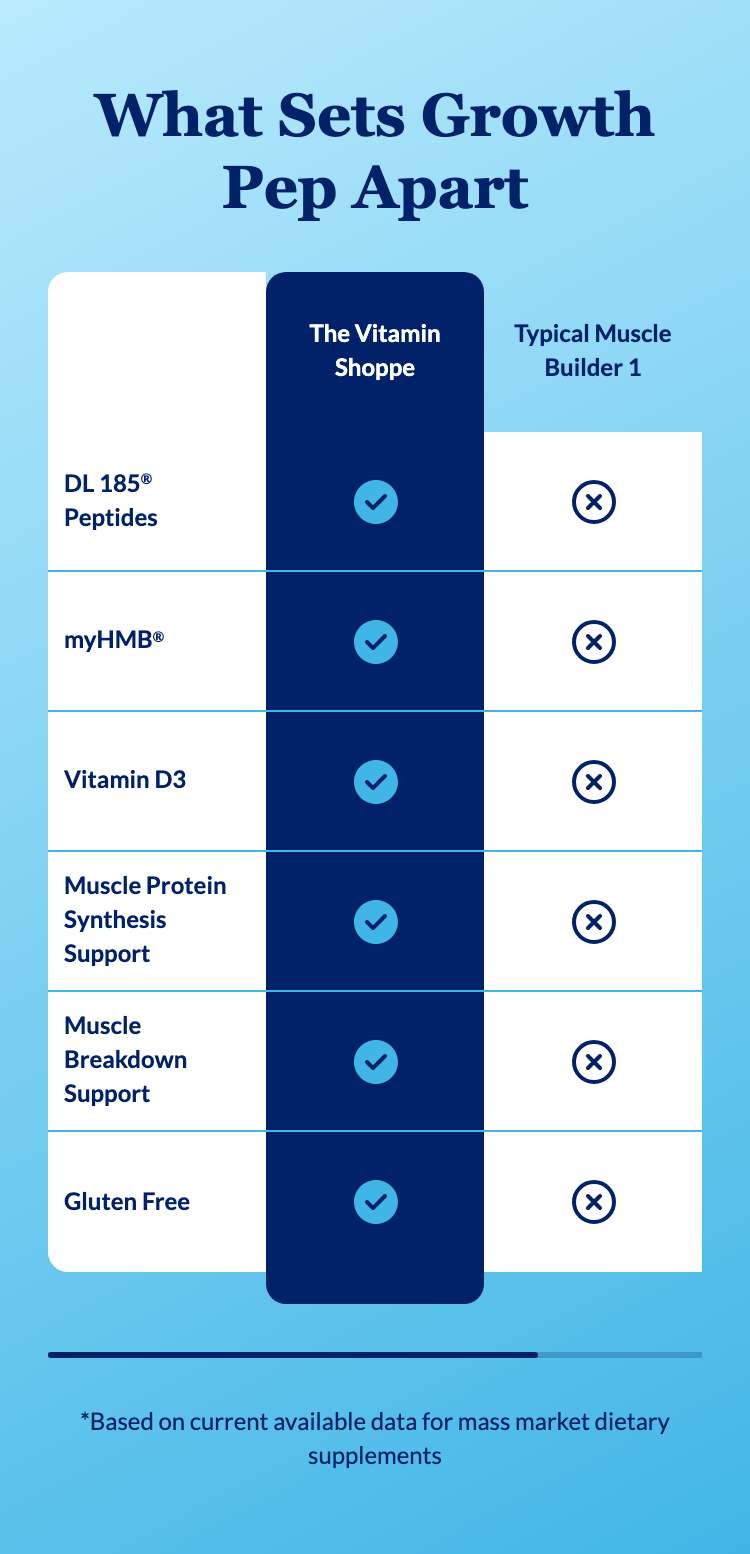
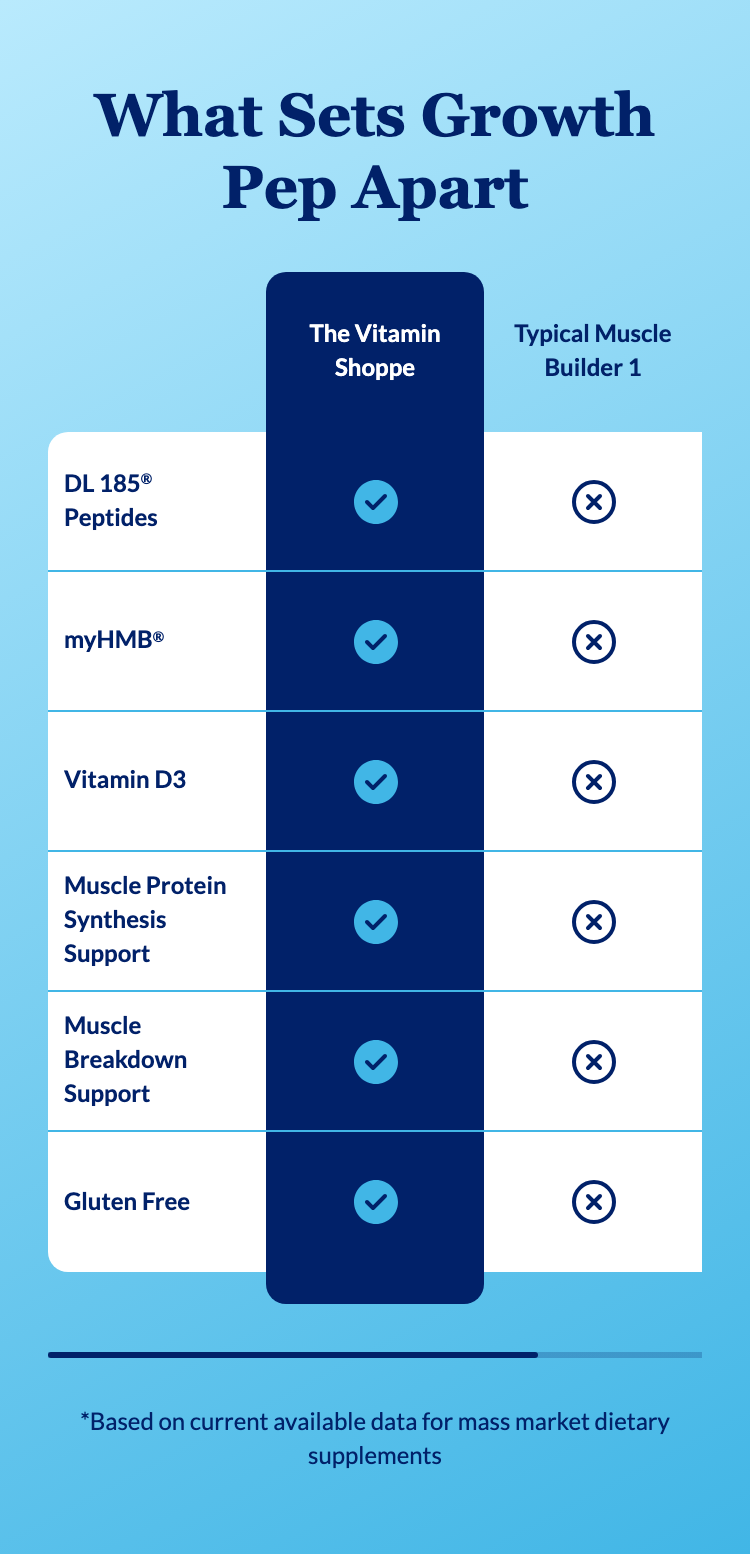
screenshots 2026-09-09T08:30:51.732Z

Changed region(s): [[0.0613, 0.1544, 0.368, 0.278]]

diff --git a/index.html b/index.html
@@ -89,6 +89,8 @@ https://framework-labs-d2c.github.io/vitaminshoppe-public/buy-box/figma-desktop.
 https://framework-labs-d2c.github.io/vitaminshoppe-public/buy-box/figma-mobile.jpg
 https://framework-labs-d2c.github.io/vitaminshoppe-public/buy-box/index.html
 https://framework-labs-d2c.github.io/vitaminshoppe-public/buy-box/mobile-375.png
+https://framework-labs-d2c.github.io/vitaminshoppe-public/buy-box/sticky-bar-1512.png
+https://framework-labs-d2c.github.io/vitaminshoppe-public/buy-box/sticky-bar-375.png
 https://framework-labs-d2c.github.io/vitaminshoppe-public/buy-box/tablet-768.png
 https://framework-labs-d2c.github.io/vitaminshoppe-public/buy-box/thumbnail-140.png
 https://framework-labs-d2c.github.io/vitaminshoppe-public/buy-box/wide-1920.png
@@ -230,7 +232,7 @@ https://framework-labs-d2c.github.io/vitaminshoppe-public/video-banner/index.htm
 https://framework-labs-d2c.github.io/vitaminshoppe-public/video-banner/mobile-375.png
 https://framework-labs-d2c.github.io/vitaminshoppe-public/video-banner/tablet-768.png
 https://framework-labs-d2c.github.io/vitaminshoppe-public/video-banner/thumbnail-140.png
-https://framework-labs-d2c.github.io/vitaminshoppe-public/video-banner/wide-1920.png" onclick="copyUrl(this)">copy all 186 URLs</button></p>
+https://framework-labs-d2c.github.io/vitaminshoppe-public/video-banner/wide-1920.png" onclick="copyUrl(this)">copy all 188 URLs</button></p>
 <div class="index">
   <div class="file"><span>assets/benefits-chevron-tile-756.svg</span> <a href="https://framework-labs-d2c.github.io/vitaminshoppe-public/assets/benefits-chevron-tile-756.svg" target="_blank" rel="noopener">https://framework-labs-d2c.github.io/vitaminshoppe-public/assets/benefits-chevron-tile-756.svg</a> <button type="button" data-url="https://framework-labs-d2c.github.io/vitaminshoppe-public/assets/benefits-chevron-tile-756.svg" onclick="copyUrl(this)">copy</button></div>
   <div class="file"><span>assets/benefits-demo-square-736.jpg</span> <a href="https://framework-labs-d2c.github.io/vitaminshoppe-public/assets/benefits-demo-square-736.jpg" target="_blank" rel="noopener">https://framework-labs-d2c.github.io/vitaminshoppe-public/assets/benefits-demo-square-736.jpg</a> <button type="button" data-url="https://framework-labs-d2c.github.io/vitaminshoppe-public/assets/benefits-demo-square-736.jpg" onclick="copyUrl(this)">copy</button></div>
@@ -276,6 +278,8 @@ https://framework-labs-d2c.github.io/vitaminshoppe-public/video-banner/wide-1920
   <div class="file"><span>buy-box/figma-mobile.jpg</span> <a href="https://framework-labs-d2c.github.io/vitaminshoppe-public/buy-box/figma-mobile.jpg" target="_blank" rel="noopener">https://framework-labs-d2c.github.io/vitaminshoppe-public/buy-box/figma-mobile.jpg</a> <button type="button" data-url="https://framework-labs-d2c.github.io/vitaminshoppe-public/buy-box/figma-mobile.jpg" onclick="copyUrl(this)">copy</button></div>
   <div class="file"><span>buy-box/index.html</span> <a href="https://framework-labs-d2c.github.io/vitaminshoppe-public/buy-box/index.html" target="_blank" rel="noopener">https://framework-labs-d2c.github.io/vitaminshoppe-public/buy-box/index.html</a> <button type="button" data-url="https://framework-labs-d2c.github.io/vitaminshoppe-public/buy-box/index.html" onclick="copyUrl(this)">copy</button></div>
   <div class="file"><span>buy-box/mobile-375.png</span> <a href="https://framework-labs-d2c.github.io/vitaminshoppe-public/buy-box/mobile-375.png" target="_blank" rel="noopener">https://framework-labs-d2c.github.io/vitaminshoppe-public/buy-box/mobile-375.png</a> <button type="button" data-url="https://framework-labs-d2c.github.io/vitaminshoppe-public/buy-box/mobile-375.png" onclick="copyUrl(this)">copy</button></div>
+  <div class="file"><span>buy-box/sticky-bar-1512.png</span> <a href="https://framework-labs-d2c.github.io/vitaminshoppe-public/buy-box/sticky-bar-1512.png" target="_blank" rel="noopener">https://framework-labs-d2c.github.io/vitaminshoppe-public/buy-box/sticky-bar-1512.png</a> <button type="button" data-url="https://framework-labs-d2c.github.io/vitaminshoppe-public/buy-box/sticky-bar-1512.png" onclick="copyUrl(this)">copy</button></div>
+  <div class="file"><span>buy-box/sticky-bar-375.png</span> <a href="https://framework-labs-d2c.github.io/vitaminshoppe-public/buy-box/sticky-bar-375.png" target="_blank" rel="noopener">https://framework-labs-d2c.github.io/vitaminshoppe-public/buy-box/sticky-bar-375.png</a> <button type="button" data-url="https://framework-labs-d2c.github.io/vitaminshoppe-public/buy-box/sticky-bar-375.png" onclick="copyUrl(this)">copy</button></div>
   <div class="file"><span>buy-box/tablet-768.png</span> <a href="https://framework-labs-d2c.github.io/vitaminshoppe-public/buy-box/tablet-768.png" target="_blank" rel="noopener">https://framework-labs-d2c.github.io/vitaminshoppe-public/buy-box/tablet-768.png</a> <button type="button" data-url="https://framework-labs-d2c.github.io/vitaminshoppe-public/buy-box/tablet-768.png" onclick="copyUrl(this)">copy</button></div>
   <div class="file"><span>buy-box/thumbnail-140.png</span> <a href="https://framework-labs-d2c.github.io/vitaminshoppe-public/buy-box/thumbnail-140.png" target="_blank" rel="noopener">https://framework-labs-d2c.github.io/vitaminshoppe-public/buy-box/thumbnail-140.png</a> <button type="button" data-url="https://framework-labs-d2c.github.io/vitaminshoppe-public/buy-box/thumbnail-140.png" onclick="copyUrl(this)">copy</button></div>
   <div class="file"><span>buy-box/wide-1920.png</span> <a href="https://framework-labs-d2c.github.io/vitaminshoppe-public/buy-box/wide-1920.png" target="_blank" rel="noopener">https://framework-labs-d2c.github.io/vitaminshoppe-public/buy-box/wide-1920.png</a> <button type="button" data-url="https://framework-labs-d2c.github.io/vitaminshoppe-public/buy-box/wide-1920.png" onclick="copyUrl(this)">copy</button></div>

diff --git a/fsd-deviations.html b/fsd-deviations.html
@@ -216,7 +216,7 @@ ul.also li { break-inside: avoid; }
 <header class="hero" style="padding-top:60px">
   <p class="eyebrow">QA reference</p>
   <h1>Where the build differs from the spec, and why</h1>
-  <p class="lede">A comparison of two things only: the <strong>input</strong> — the Confluence FSD and the Figma frames — against the <strong>output</strong>, what actually ships. 108 differences across 18 sections, plus 40 findings worth knowing before you test.</p>
+  <p class="lede">A comparison of two things only: the <strong>input</strong> — the Confluence FSD and the Figma frames — against the <strong>output</strong>, what actually ships. 107 differences across 18 sections, plus 40 findings worth knowing before you test.</p>
   <p class="lede">Everything listed here is a decision. If you find something that differs from the spec and is <strong>not</strong> on this page, that is worth raising.</p>
   <p class="lede">Analytics is covered on its own page: <a href="./ga-tracking.html">what the modules send to GA4</a>, generated from the shipped markup rather than from the specs.</p>
 </header>
@@ -235,7 +235,7 @@ ul.also li { break-inside: avoid; }
 <h4 id="tablet-widths-are-best-effort-and-are-not-part-of-this-review">Tablet widths are best-effort, and are not part of this review</h4>
 <p>Figma tokenises its desktop frames at 1200 and above and its mobile frames at 768 and below, so <strong>the band between them is not drawn in any design we were given</strong>. Every value a section uses in that band — where it changes column count, how many cards sit in a row, when the drawn type sizes step in — was chosen to fit the screen sensibly rather than measured from a frame. Those choices are not listed per section and are not defects. <strong>The drawn widths, 1512 and 375, are the ones to review</strong>; the captures on each section's reference page are taken at both.</p>
 </div>
-<p class="excluded">Two kinds of note are deliberately left out. Of the 208 deviation notes recorded across the twelve specs, 14 describe how the build got somewhere rather than where it ended up — a value corrected against Figma, a helper extracted, a first attempt replaced — and 18 record behaviour in the tablet band, which the note above covers once instead of section by section. Both remain in each section's <code>_fsd.md</code>. A build-time check asserts that every one of the 208 is either published above or explicitly classified, so nothing reaches this page by accident and nothing falls off it either.</p>
+<p class="excluded">Two kinds of note are deliberately left out. Of the 207 deviation notes recorded across the twelve specs, 14 describe how the build got somewhere rather than where it ended up — a value corrected against Figma, a helper extracted, a first attempt replaced — and 18 record behaviour in the tablet band, which the note above covers once instead of section by section. Both remain in each section's <code>_fsd.md</code>. A build-time check asserts that every one of the 207 is either published above or explicitly classified, so nothing reaches this page by accident and nothing falls off it either.</p>
 </section>
 
 <section id="review">
@@ -2019,7 +2019,7 @@ ul.also li { break-inside: avoid; }
     </div>
   </div>
 </div>
-<h3 class="group">Differences <span class="count">5</span></h3>
+<h3 class="group">Differences <span class="count">4</span></h3>
 <div class="card">
 <h4 id="the-heading-accepts-a-shorter-headline-than-the-stated-range">The heading accepts a shorter headline than the stated range</h4>
 <p class="line"><span class="tag drift">Differs</span></p>
@@ -2051,14 +2051,6 @@ ul.also li { break-inside: avoid; }
 <dt>Spec &amp; design</dt><dd>The design draws the cross in <code>#012169</code> in every cell that has one.</dd>
 <dt>What ships</dt><dd>The check is the drawn light blue everywhere. The cross is white in our own column and the drawn navy in every other.</dd>
 <dt>Why</dt><dd>No frame draws a cross in our own column — every drawn row has us winning — so the navy the design gives it has never been placed on the navy fill, where it would be invisible. The same holds once a merchandiser recolours the column, which the spec explicitly allows.</dd>
-</dl></div>
-<div class="card">
-<h4 id="on-phones-the-attribute-column-s-header-cell-is-filled">On phones the attribute column's header cell is filled</h4>
-<p class="line"><span class="tag drift">Differs</span></p>
-<dl>
-<dt>Spec &amp; design</dt><dd>The top-left cell is drawn empty at both widths.</dd>
-<dt>What ships</dt><dd>On phones it takes the white of its own column and the band's top-left corner moves up to it. Desktop is unchanged.</dd>
-<dt>Why</dt><dd>That column is pinned on phones while the competitors scroll under it, per the FSD's own User requirement. A pinned cell with no fill lets the scrolling content show through, and what passes that corner is the competitor headings — so the empty notch is only empty while nothing moves under it.</dd>
 </dl></div>
 <h3 class="group">Findings <span class="count">4</span></h3>
 <div class="card finding">

diff --git a/buy-box/index.html b/buy-box/index.html
@@ -227,7 +227,13 @@ pre { background: var(--surface); border: 1px solid var(--rule); border-radius: 
 <figure><figcaption>tablet — 768px</figcaption>
 <img src="./tablet-768.png" alt="buy-box rendered at 768px" loading="lazy" /></figure>
 <figure><figcaption>wide — 1920px</figcaption>
-<img src="./wide-1920.png" alt="buy-box rendered at 1920px" loading="lazy" /></figure></div></section>
+<img src="./wide-1920.png" alt="buy-box rendered at 1920px" loading="lazy" /></figure></div>
+<h3>States</h3>
+<p>Reached by setting the component's own state rather than by driving the gesture, so these show what the state looks like and not that the trigger still fires.</p>
+<div class="shots"><figure><figcaption>Sticky CTA bar, scrolled state — 1512px</figcaption>
+<img src="./sticky-bar-1512.png" alt="buy-box: Sticky CTA bar, scrolled state at 1512px" loading="lazy" /></figure>
+<figure><figcaption>Sticky CTA bar, scrolled state — 375px</figcaption>
+<img src="./sticky-bar-375.png" alt="buy-box: Sticky CTA bar, scrolled state at 375px" loading="lazy" /></figure></div></section>
 <section id="fields"><p class="eyebrow">03 — Fields</p><h2>What a merchandiser fills in</h2>
 <p>Generated from <code>_schema.ts</code>, in the order Amplience shows them.</p>
 <div class="scroll"><table><thead><tr><th>Field</th><th>Type</th><th></th><th>Constraints</th><th>Description</th></tr></thead>
@@ -309,7 +315,7 @@ pre { background: var(--surface); border: 1px solid var(--rule); border-radius: 
   &quot;priority&quot;: true,
   &quot;sectionId&quot;: &quot;buy-box&quot;
 }</pre></section>
-<section id="design-reference"><p class="eyebrow">05 — Design reference</p><h2>Design reference</h2><p>Four frames, all in the file named in the frontmatter. The buy box pair is the one the committed <code>_figma-*.jpg</code> exports come from; the sticky bar pair is cited here and has no export of its own, because the bar only exists in a scrolled state that a section screenshot never reaches.</p>
+<section id="design-reference"><p class="eyebrow">05 — Design reference</p><h2>Design reference</h2><p>Four frames, all in the file named in the frontmatter. The buy box pair is the one the committed <code>_figma-*.jpg</code> exports come from; the wipe compare takes one pair per section, so the sticky bar pair has no <code>_figma-*.jpg</code> beside it and is measured against rather than wiped over. The bar itself is captured: the <code>stateCaptures</code> entry in <code>platter.config.js</code> photographs it at 1512 and 375, which the standard pass cannot do because it shoots the section element unscrolled and a fixed-position bar sits outside that element.</p>
 <div class="scroll"><table><thead><tr><th>Part</th><th>Desktop</th><th>Mobile</th></tr></thead><tbody><tr><td>Main buy box</td><td><a href="https://www.figma.com/design/t9mARSHD1DlFyxMAxwBBPL/The-Vitamin-Shoppe-External-Consolidated-Feedback?node-id=19142-1554" target="_blank" rel="noopener"><code>19142:1554</code></a> at 1512 by 1024</td><td><a href="https://www.figma.com/design/t9mARSHD1DlFyxMAxwBBPL/The-Vitamin-Shoppe-External-Consolidated-Feedback?node-id=19142-1744" target="_blank" rel="noopener"><code>19142:1744</code></a> at 375 by 1358</td></tr><tr><td>Sticky CTA bar</td><td><a href="https://www.figma.com/design/t9mARSHD1DlFyxMAxwBBPL/The-Vitamin-Shoppe-External-Consolidated-Feedback?node-id=18538-11380" target="_blank" rel="noopener"><code>18538:11380</code></a> at 1512 by 88</td><td><a href="https://www.figma.com/design/t9mARSHD1DlFyxMAxwBBPL/The-Vitamin-Shoppe-External-Consolidated-Feedback?node-id=18538-11399" target="_blank" rel="noopener"><code>18538:11399</code></a> at 375 by 111</td></tr></tbody></table></div>
 <p>The mobile buy box is parented to the page rather than to the <a href="https://www.figma.com/design/t9mARSHD1DlFyxMAxwBBPL/The-Vitamin-Shoppe-External-Consolidated-Feedback?node-id=18538-1132" target="_blank" rel="noopener"><code>18538:1132</code></a> &quot;Buy Box&quot; section, and only sits inside that section's bounds on canvas — which is why it is invisible to a metadata read of the section. A near-identical 375 by 1358 &quot;buybox&quot; at <a href="https://www.figma.com/design/t9mARSHD1DlFyxMAxwBBPL/The-Vitamin-Shoppe-External-Consolidated-Feedback?node-id=18309-69381" target="_blank" rel="noopener"><code>18309:69381</code></a> belongs to the older Template 2 and is not the frame measured here.</p>
 <h3 id="main-buy-box-frame-and-columns">Main buy box — frame and columns</h3>

diff --git a/comparison-table/index.html b/comparison-table/index.html
@@ -415,7 +415,6 @@ pre { background: var(--surface); border: 1px solid var(--rule); border-radius: 
 <div class="card"><h3 id="a-column-logo-is-contained-inside-its-header-cell">A column logo is contained inside its header cell</h3><p><span class="badge built">Built</span></p><p>The design's own TVS logotype is 165 × 61 in an 80px header cell with 16px padding, absolutely positioned so it overflows the padded box; the GNC marks are 112 × 32 and do not. A merchandiser-uploaded file has no such per-asset placement, so every logo is contained at 36px on phones and 48px on desktop. The drawn TVS logotype therefore renders smaller than the frame shows it.</p></div>
 <div class="card"><h3 id="a-cross-in-our-own-column-is-drawn-white-not-navy">A cross in our own column is drawn white, not navy</h3><p><span class="badge built">Built</span></p><p>Both icons take <code>currentColor</code> rather than the drawn <code>#41b6e6</code> and <code>#012169</code>. The check is unchanged at either width — it is the light blue everywhere the design puts it. The cross is not: no frame draws one in our own column, because every drawn row has us winning, and the navy the design gives it would be invisible on the navy fill. It is white there and navy everywhere else. The same reasoning covers a merchandiser who recolours the column.</p></div>
 <div class="card"><h3 id="the-table-is-built-from-aria-roles-rather-than-table-elements">The table is built from ARIA roles rather than table elements</h3><p><span class="badge built">Built</span></p><p><code>role=&quot;table&quot;</code> / <code>&quot;rowgroup&quot;</code> / <code>&quot;row&quot;</code> / <code>&quot;columnheader&quot;</code> / <code>&quot;rowheader&quot;</code> / <code>&quot;cell&quot;</code> on div elements, laid out as one CSS grid per row. <code>base.css</code> § TVS page-frame records that their header stylesheet styles bare elements under <code>.site-wrapper</code> at (0,1,1), which beats every utility and every one-class component rule we are permitted to write; it has already taken <code>&lt;p&gt;</code> and <code>&lt;button&gt;</code>. Whether it also styles <code>table</code>, <code>th</code> or <code>td</code> cannot be measured from here, and a table is the one structure where silently losing <code>padding</code>, <code>height</code> or <code>border</code> would wreck the whole module rather than one element. The roles carry the same semantics and no element selector can reach them. Every value cell also carries its own visually hidden wording, since an icon alone announces nothing.</p></div>
-<div class="card"><h3 id="on-phones-the-attribute-column-s-header-cell-is-filled">On phones the attribute column's header cell is filled</h3><p><span class="badge built">Built</span></p><p>The design draws the top-left cell empty at both widths. On phones that column is pinned while the competitors scroll under it, and a pinned cell with no fill of its own lets the scrolling content show through — what passes that corner is the competitor headings. The cell takes the white of its own column, and the band's top-left corner moves up to it. Desktop is unchanged: nothing scrolls there, so the cell stays empty as drawn.</p></div>
 <div class="card"><h3 id="a-registered-mark-is-raised-the-design-leaves-it-on-the-baseline">A registered mark is raised; the design leaves it on the baseline</h3><p><span class="badge built">Built</span></p><p>The design sets &quot;DL 185® Peptides&quot; and &quot;myHMB®&quot; with the ® full-size on the baseline. Every prose field in this library runs through the shared <code>richText</code> scope, which lifts a bare ® into a <code>&lt;sup&gt;</code> automatically, so both labels render it raised and about 5px narrower than the frame. This follows the spec over the design deliberately: the Attribute Row's own Asset/Copy requirement asks for &quot;a superscript character for trademark registration marks (®), since many ingredient/brand names in this table are registered&quot;. Changing it here would also mean diverging from every other section.</p></div></section>
 </main>
 </div>
